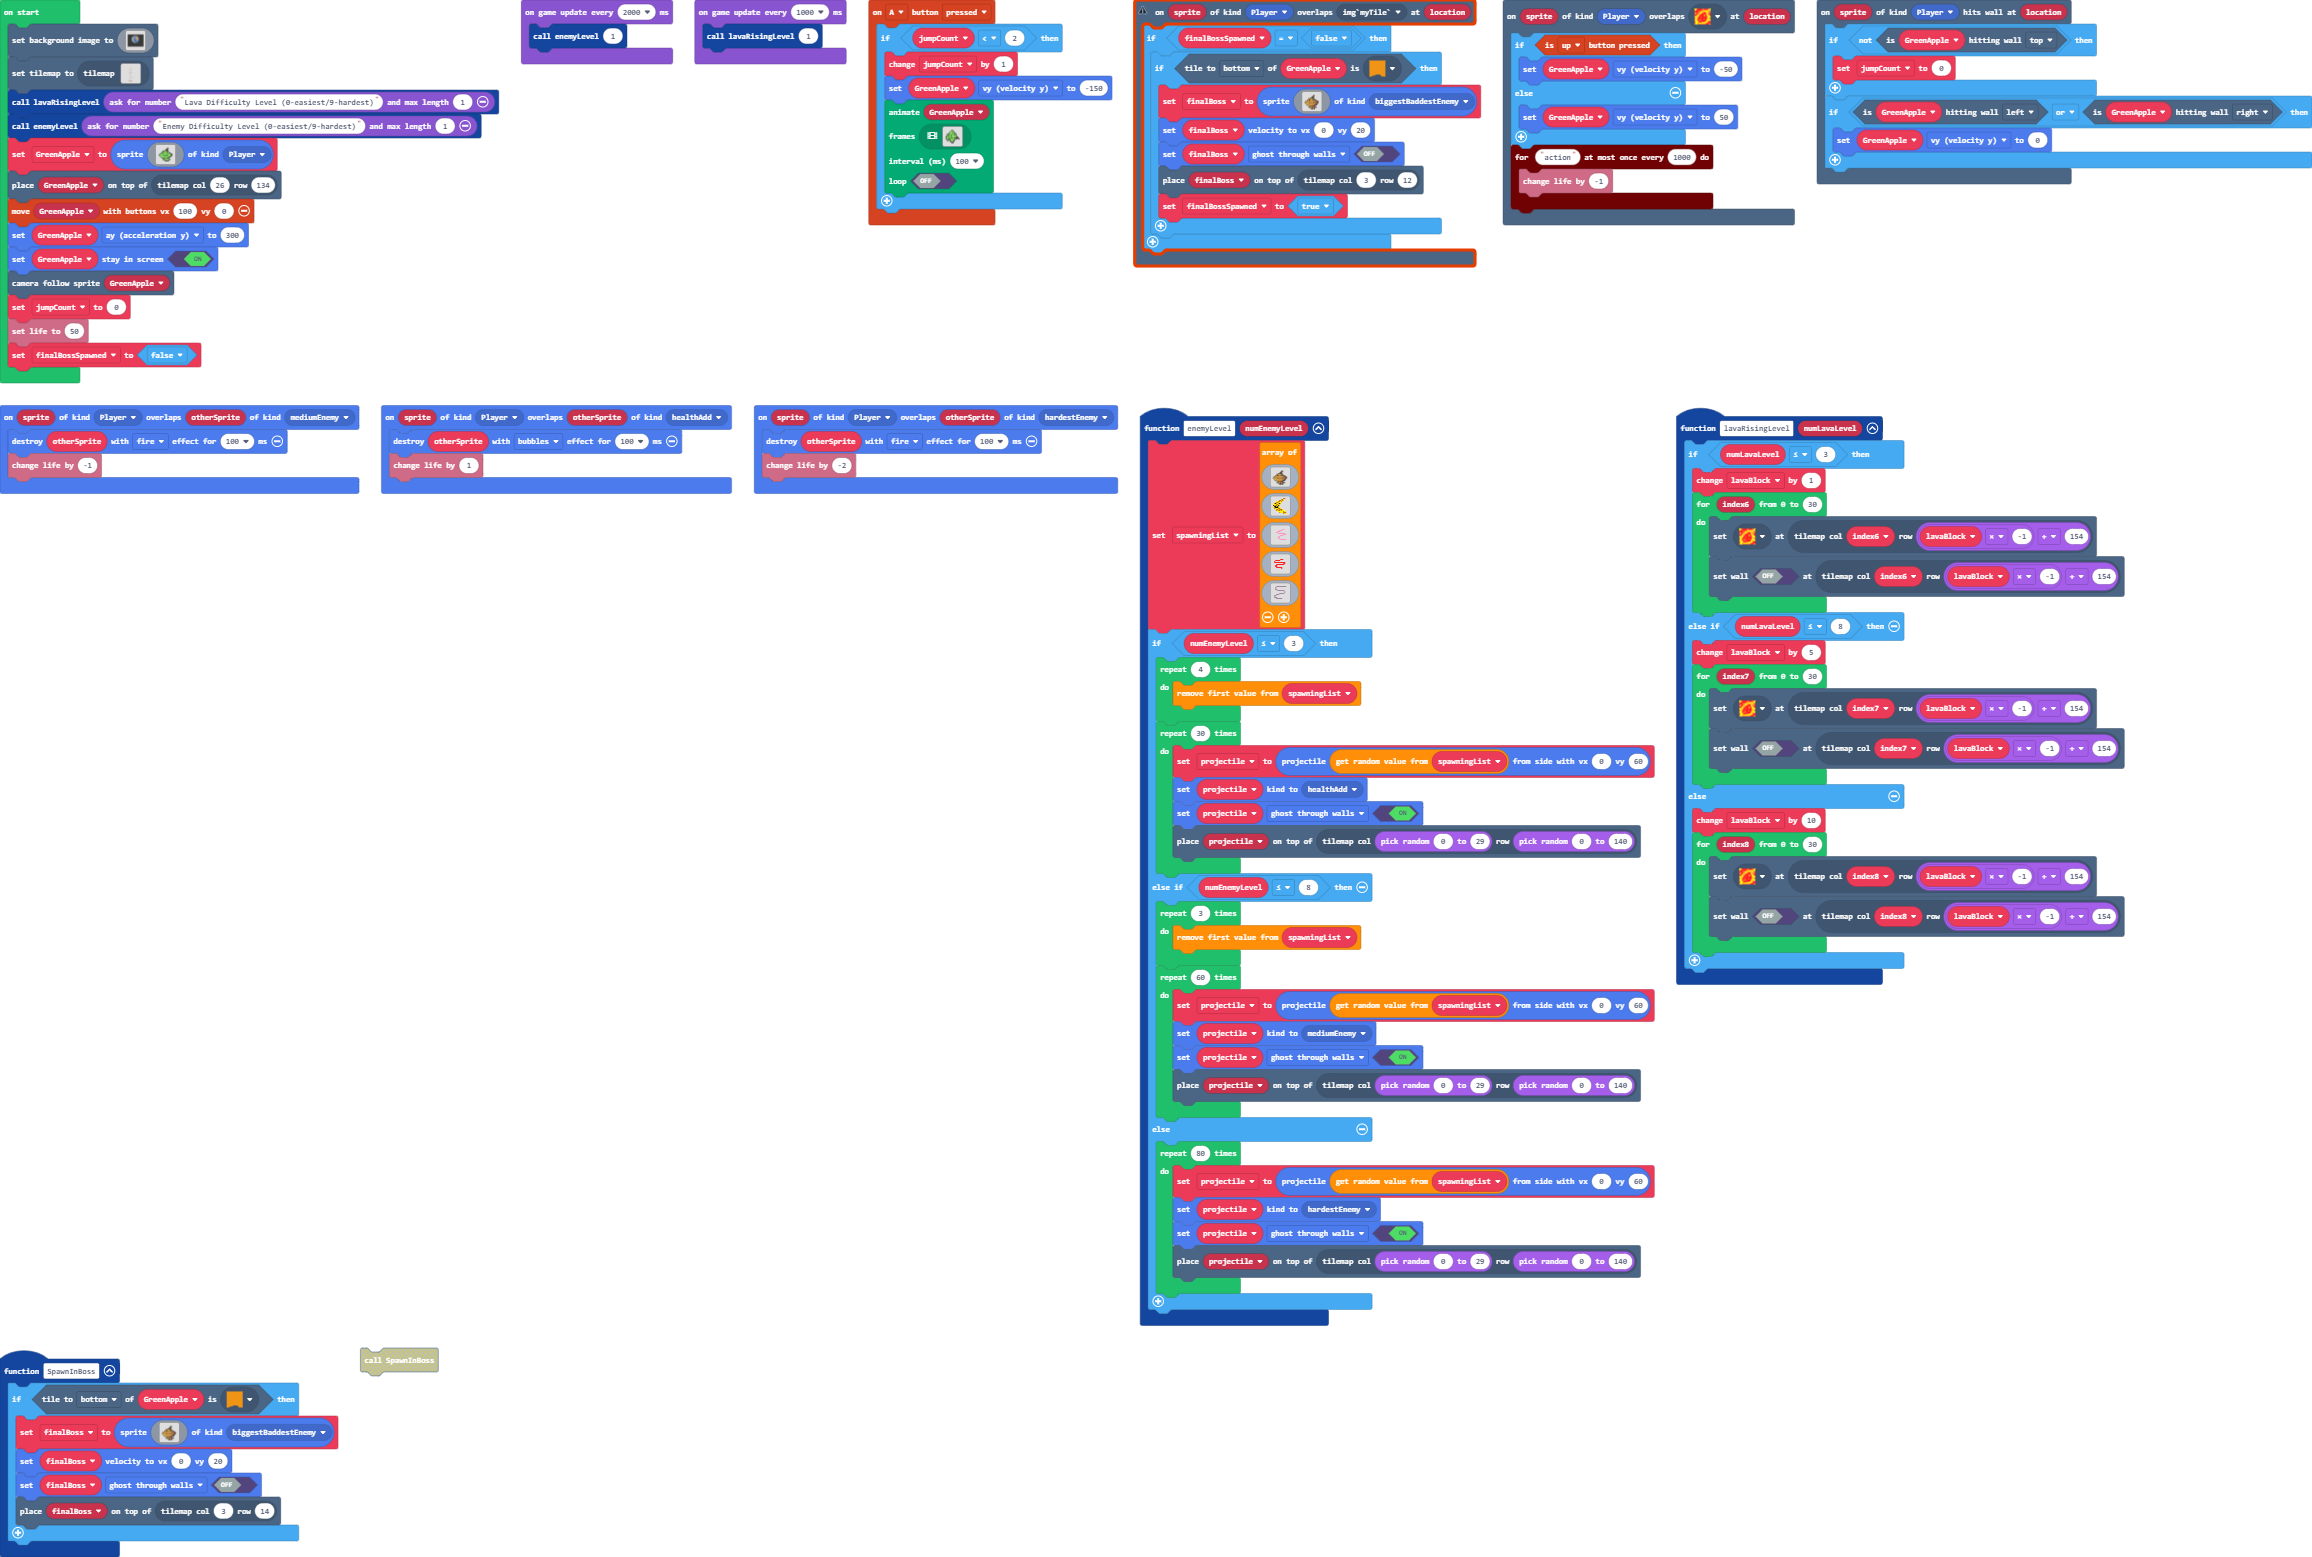
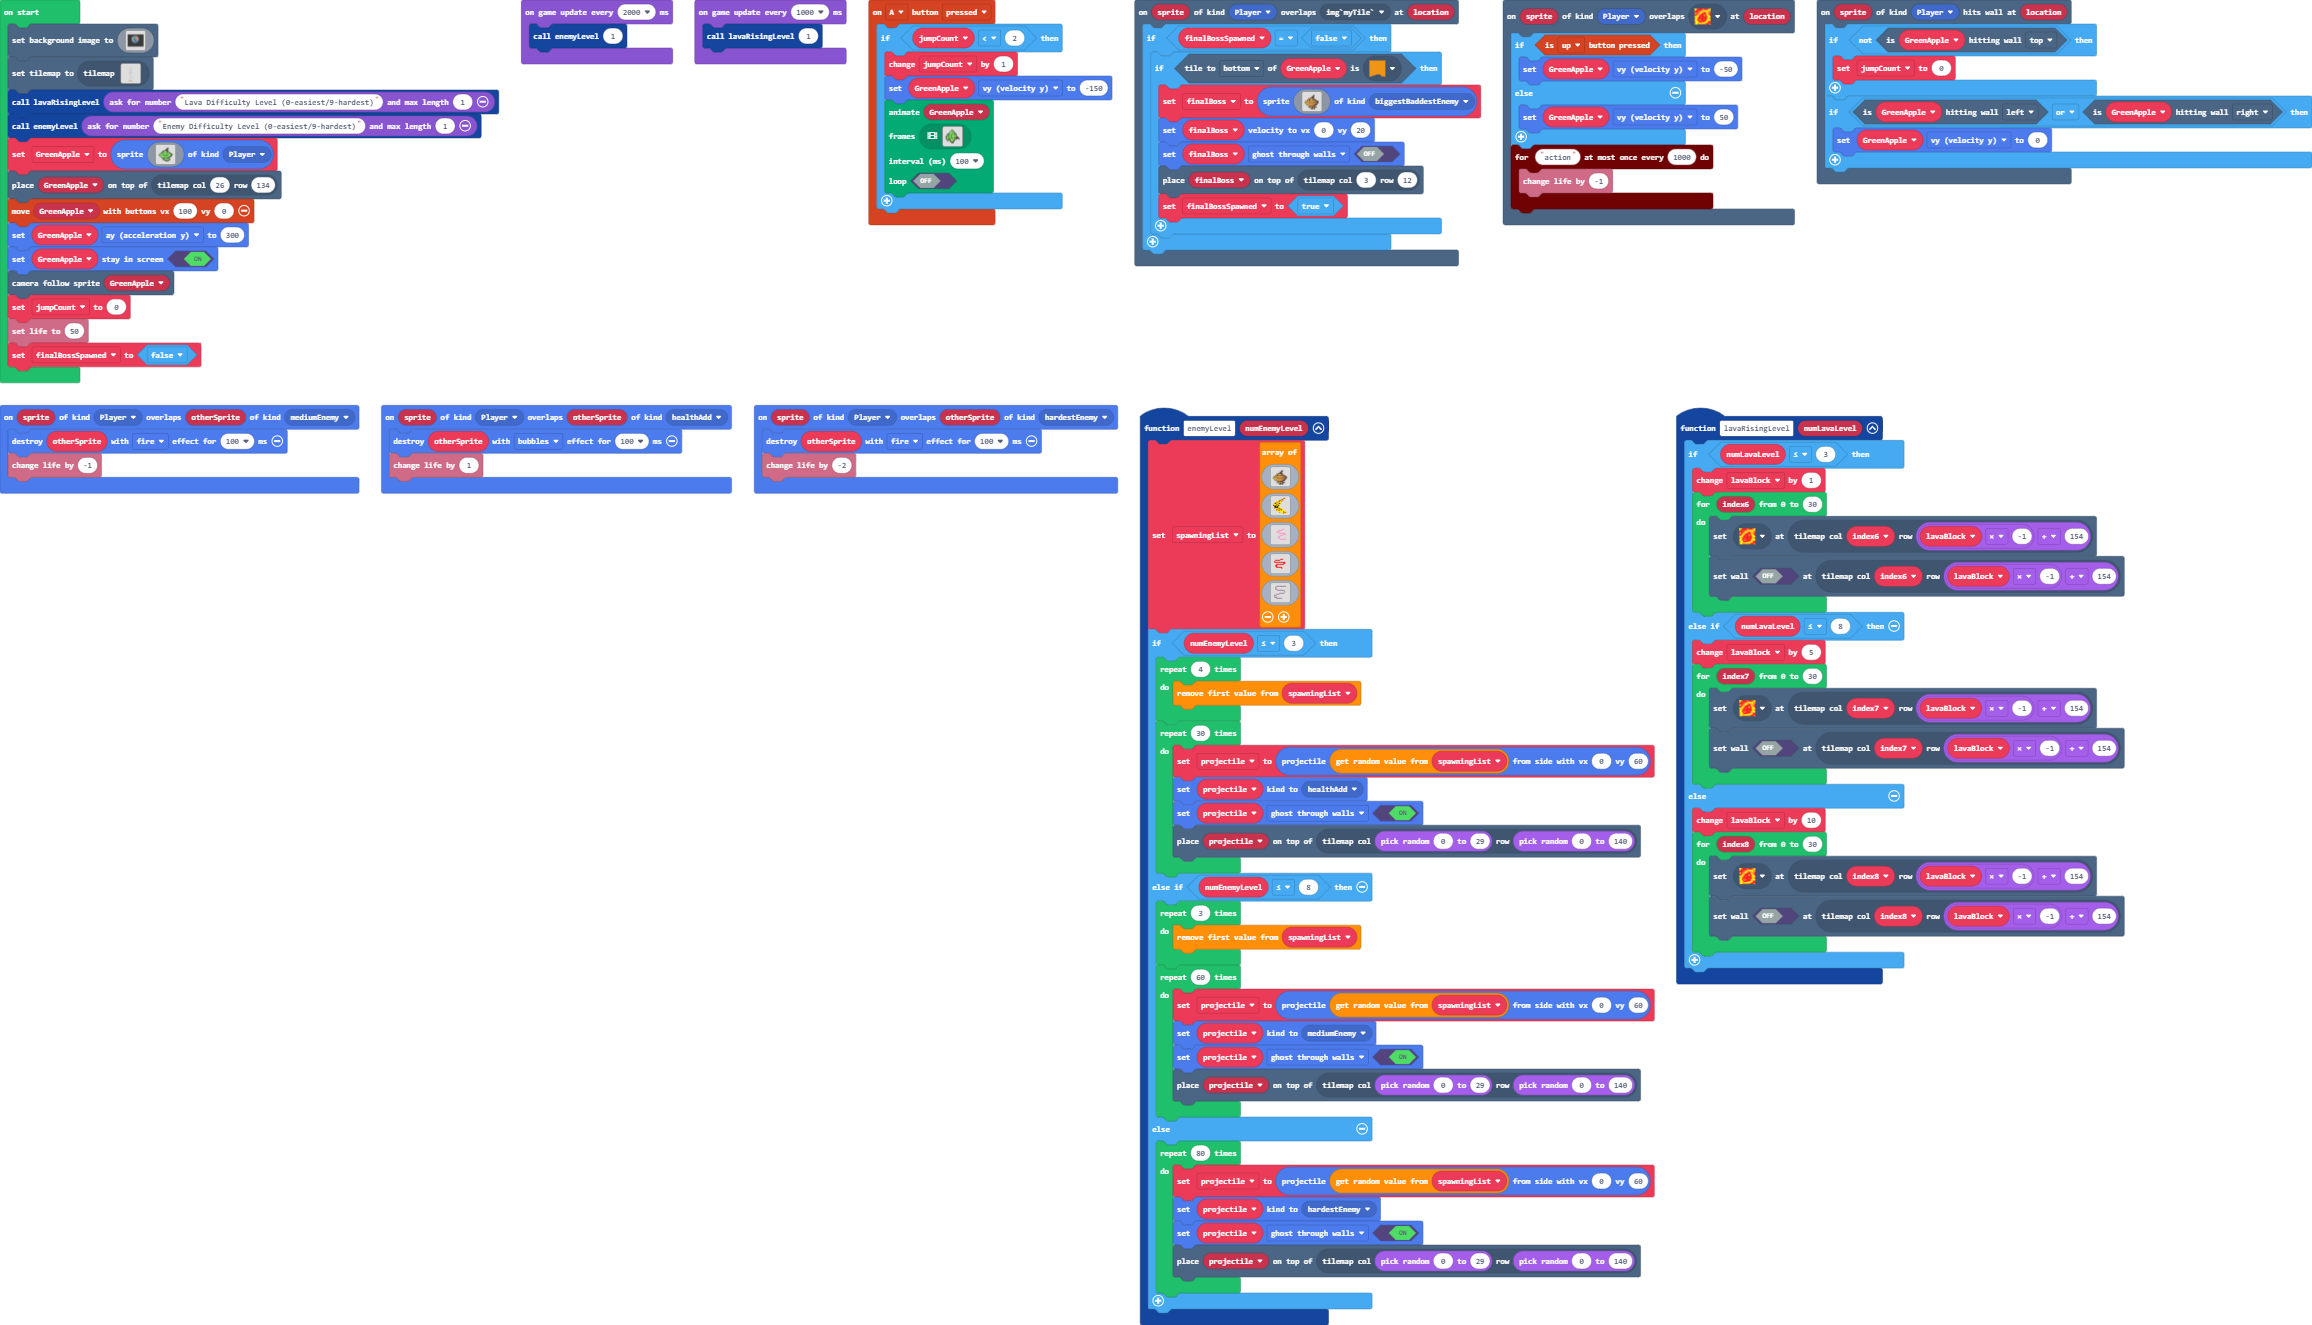
delete old function

Changed region(s): [[0.0, 0.0, 1.0, 1.0], [0.0, 0.8664, 0.1557, 1.0], [0.1557, 0.8664, 0.1869, 0.8974]]

diff --git a/main.ts b/main.ts
@@ -223,14 +223,6 @@ scene.onOverlapTile(SpriteKind.Player, img`myTile`, function (sprite, location) 
         }
     }
 })
-function SpawnInBoss () {
-    if (GreenApple.tileKindAt(TileDirection.Bottom, sprites.builtin.oceanSand14)) {
-        finalBoss = sprites.create(assets.image`archnemesis`, SpriteKind.biggestBaddestEnemy)
-        finalBoss.setVelocity(0, 20)
-        finalBoss.setFlag(SpriteFlag.GhostThroughWalls, false)
-        tiles.placeOnTile(finalBoss, tiles.getTileLocation(3, 14))
-    }
-}
 sprites.onOverlap(SpriteKind.Player, SpriteKind.mediumEnemy, function (sprite, otherSprite) {
     sprites.destroy(otherSprite, effects.fire, 100)
     info.changeLifeBy(-1)
